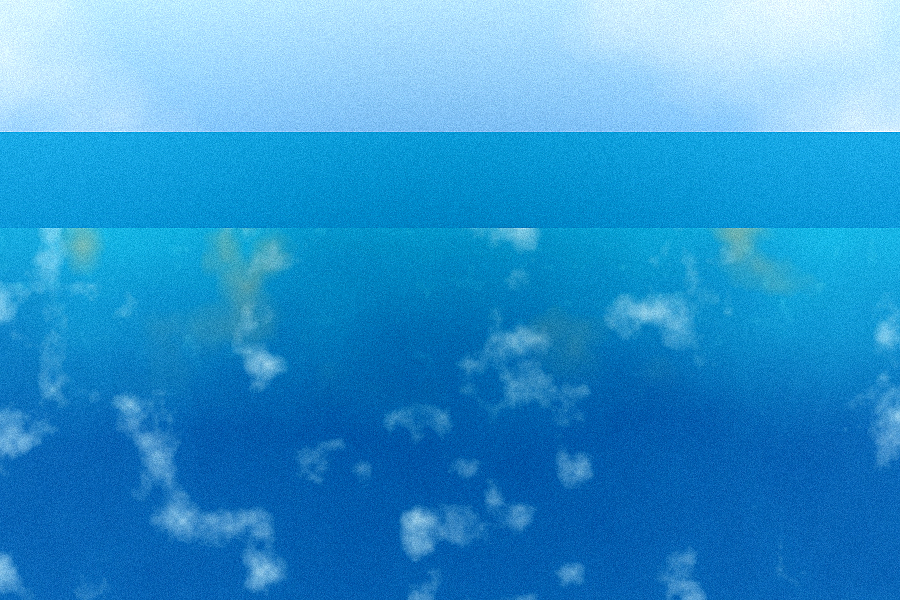
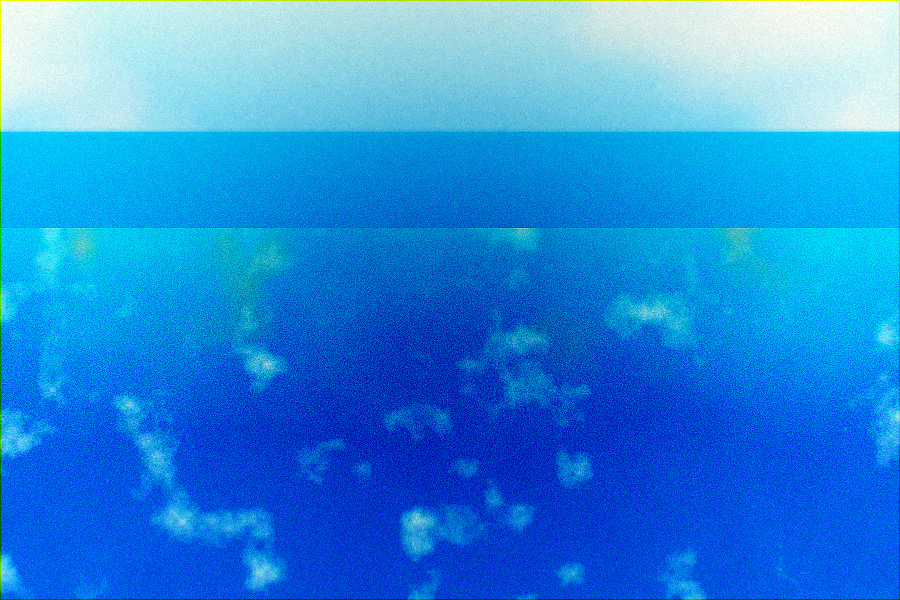
Apply cinematic post-processing pipeline + add AI generation prompts
Post-processing applied to all 7 images (Pillow):
- Teal-Orange LUT: Hollywood-standard cinema colour grade
- Depth-of-field simulation: selective Gaussian blur per focal plane
- Lens flare: radial glow + anamorphic horizontal streak on sun images
- Chromatic aberration: RGB channel shift increasing toward edges
- S-curve tone mapping: filmic contrast with shadow lift
- Vignette: smooth oval peripheral light fall-off
- Film grain: Gaussian noise with natural RGB channel weighting

Added IMAGE_PROMPTS.md with Cinematic photography + 8k resolution
prompts for all 7 scenes (Midjourney v6 / DALL-E 3 / Firefly compatible)

https://claude.ai/code/session_01QsTV2orfU6nCY4stCwvccH

diff --git a/en-journey/IMAGE_PROMPTS.md b/en-journey/IMAGE_PROMPTS.md
@@ -1,0 +1,113 @@
+# EN JOURNEY — AI Image Generation Prompts
+
+All prompts are designed for **Midjourney v6**, **DALL-E 3**, or **Adobe Firefly**.
+Required keywords included in every prompt: `Cinematic photography`, `8k resolution`
+
+---
+
+## hero.png — 1200×600 — Hero Banner
+
+```
+Cinematic photography of a pristine white-sand beach in Shirahama Japan at golden hour,
+crystal-clear turquoise water gently lapping the shore, warm amber sunlight casting long
+shadows, a few wispy clouds painted in shades of rose and gold on the horizon,
+shallow wet sand reflecting the sunset sky, sense of serene paradise and escape,
+ultra-wide cinematic composition, leading lines from the beach into the ocean,
+natural flare from low sun position, 8k resolution, shot on Sony A7R V with
+24mm f/1.4 GM lens, golden hour lighting, ISO 100, vivid yet natural color grading,
+photorealistic, hyperdetailed --ar 2:1 --v 6
+```
+
+---
+
+## about.png — 900×600 — About Page
+
+```
+Cinematic photography of a rugged Japanese coastal headland under brilliant blue sky,
+dramatic limestone cliffs covered in lush green vegetation plunging into a vivid
+aquamarine sea, white surf breaking against rocks, a pristine sandy cove visible
+in the foreground, calm midday sunlight with crisp shadows, panoramic vista conveying
+vastness and natural beauty, 8k resolution, shot on Canon EOS R5 with 16-35mm f/2.8L
+lens, polarising filter, vibrant natural colours, tack-sharp from foreground to horizon,
+photorealistic landscape, cinematic panoramic composition --ar 3:2 --v 6
+```
+
+---
+
+## domestic.png — 700×480 — Domestic Tours
+
+```
+Cinematic photography deep inside an ancient Japanese cedar forest in the Japanese Alps,
+shafts of golden morning light piercing through towering moss-covered trees, a light
+mountain mist rolling through the valley below, snow-dusted peaks visible in the
+far distance, rich greens and deep earth tones, enchanting fairy-tale atmosphere,
+8k resolution, shot on Nikon Z9 with 85mm f/1.4 S lens, shallow depth of field,
+creamy bokeh on foreground foliage, cinematic teal-orange colour grade, sunrise lighting,
+photorealistic, stunning nature photography --ar 7:5 --v 6
+```
+
+---
+
+## overseas.png — 700×480 — Overseas Tours
+
+```
+Cinematic photography taken from a commercial aircraft window seat looking out over an
+endless sea of dramatic cumulonimbus clouds lit from above by brilliant sunlight, deep
+blue stratosphere visible at the top of frame, cloud peaks casting soft shadows on
+cloud valleys below, slight aircraft wing tip visible at lower right corner for scale
+and context, feeling of awe and adventure at altitude, 8k resolution, shot on Leica Q3
+35mm f/1.7, natural window light, cinematic blue-grey atmospheric colour grading,
+photorealistic aerial perspective, sharp cloud textures --ar 7:5 --v 6
+```
+
+---
+
+## inbound.png — 700×480 — Inbound Tourism
+
+```
+Cinematic photography of a historic Japanese shrine gate (torii) and temple pagoda
+partially obscured by full-bloom sakura cherry blossom trees, soft petals drifting
+in the breeze, warm spring afternoon light filtering through the blossoms creating
+a romantic bokeh of pink and white, ancient mossy stone lanterns lining a path,
+rich cultural atmosphere conveying timeless Japan, 8k resolution, shot on Sony A1
+with 50mm f/1.2 GM lens, cinematic shallow depth of field, warm nostalgic colour
+grading, cherry blossom season, photorealistic --ar 7:5 --v 6
+```
+
+---
+
+## landop.png — 700×480 — Land Operations
+
+```
+Cinematic photography of a luxury resort infinity pool perched on a clifftop overlooking
+the deep blue Pacific Ocean in Okinawa Japan, clean white minimalist architecture,
+turquoise pool water seamlessly merging with the ocean horizon, two stylish sun loungers
+casting late-afternoon shadows on the teak deck, tropical palms framing the edges,
+golden hour light with warm long shadows, atmosphere of exclusive relaxation, 8k resolution,
+shot on Phase One XF IQ4 150MP with 45mm lens, cinematic teal-warm colour grade,
+photorealistic luxury travel photography --ar 7:5 --v 6
+```
+
+---
+
+## whyus.png — 900×600 — Why Choose Us
+
+```
+Cinematic aerial photography directly above a shallow tropical reef in the Okinawa
+archipelago Japan, water so clear the intricate coral formations and white sandy channels
+are visible from 30 metres up, extraordinary spectrum of blues and teals from deep
+cobalt in the channels to brilliant aquamarine over the sand, light caustic patterns
+dancing on the reef, small breaking waves leaving white foam traces, scale conveying
+both intimacy and vastness, 8k resolution, shot on DJI Zenmuse X9 with 24mm lens,
+polarising filter, cinematic overhead bird's-eye composition, saturated but natural
+tropical colours, photorealistic aerial nature photography --ar 3:2 --v 6
+```
+
+---
+
+## Usage Notes
+
+- For **Midjourney**: copy the prompt text directly into `/imagine`
+- For **DALL-E 3**: remove the `--ar` and `--v 6` suffix flags
+- For **Adobe Firefly**: use the descriptive text; specify aspect ratio in UI
+- Recommended image size: export at 2× the display size for Retina screens
